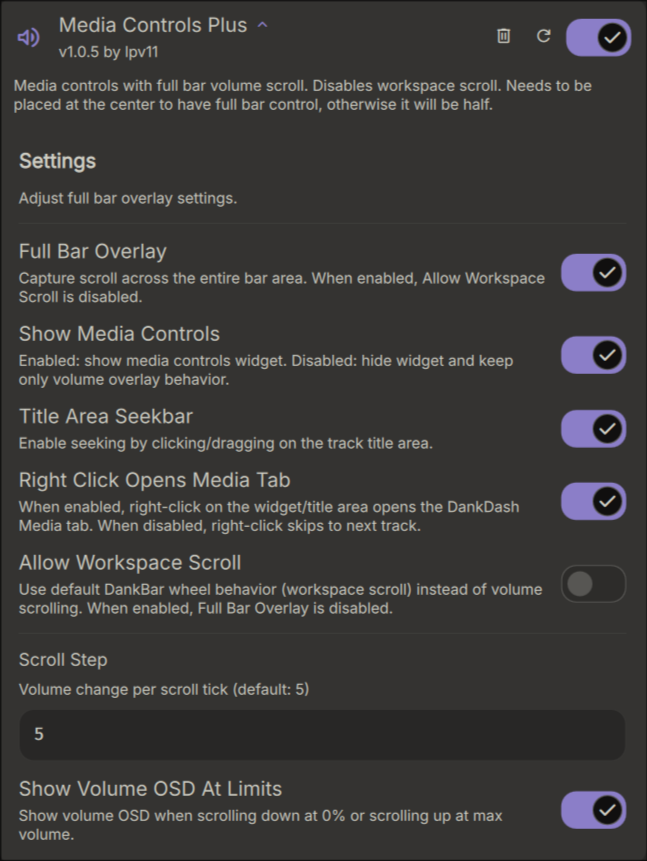
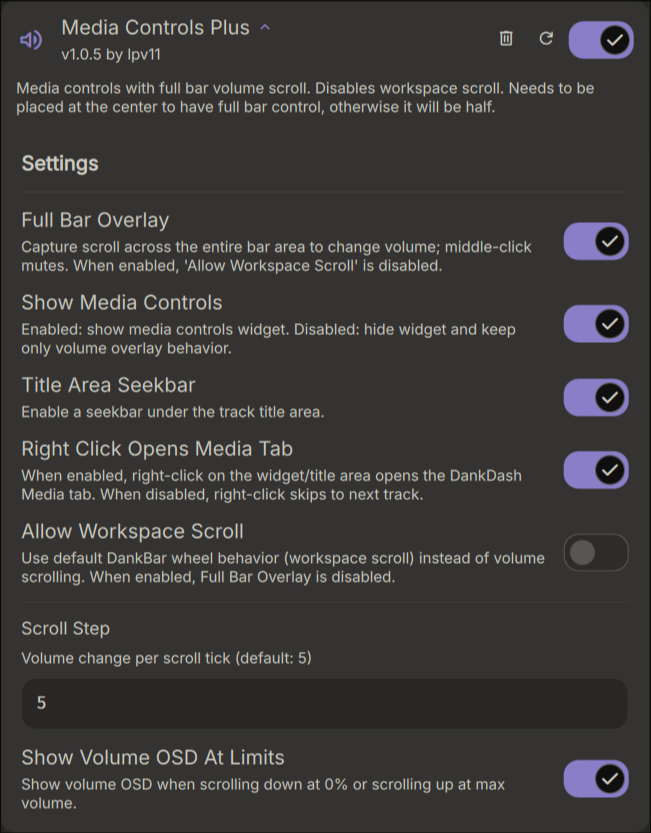
Remove settings subtitle and update screenshot

diff --git a/MediaControlsPlusSettings.qml b/MediaControlsPlusSettings.qml
@@ -15,14 +15,6 @@ PluginSettings {
         color: Theme.surfaceText
     }
 
-    StyledText {
-        width: parent.width
-        text: "Adjust full bar overlay settings."
-        font.pixelSize: Theme.fontSizeSmall
-        color: Theme.surfaceVariantText
-        wrapMode: Text.WordWrap
-    }
-
     Rectangle {
         width: parent.width
         height: 1
@@ -34,7 +26,7 @@ PluginSettings {
         id: fullOverlayToggle
         settingKey: "fullOverlay"
         label: "Full Bar Overlay"
-        description: "Capture scroll across the entire bar area. When enabled, Allow Workspace Scroll is disabled."
+        description: "Capture scroll across the entire bar area to change volume; middle-click mutes. When enabled, 'Allow Workspace Scroll' is disabled."
         defaultValue: true
         onValueChanged: {
             if (value && allowWorkspaceScrollToggle.value)
